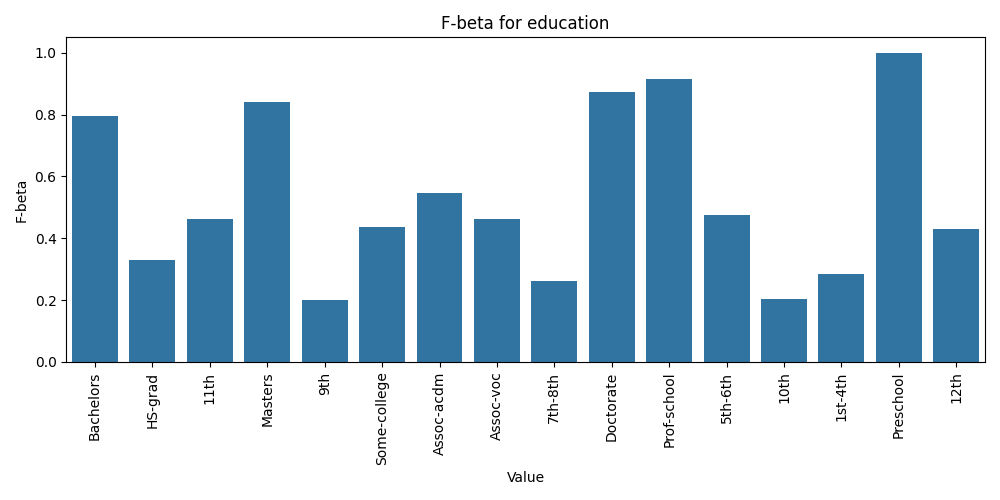
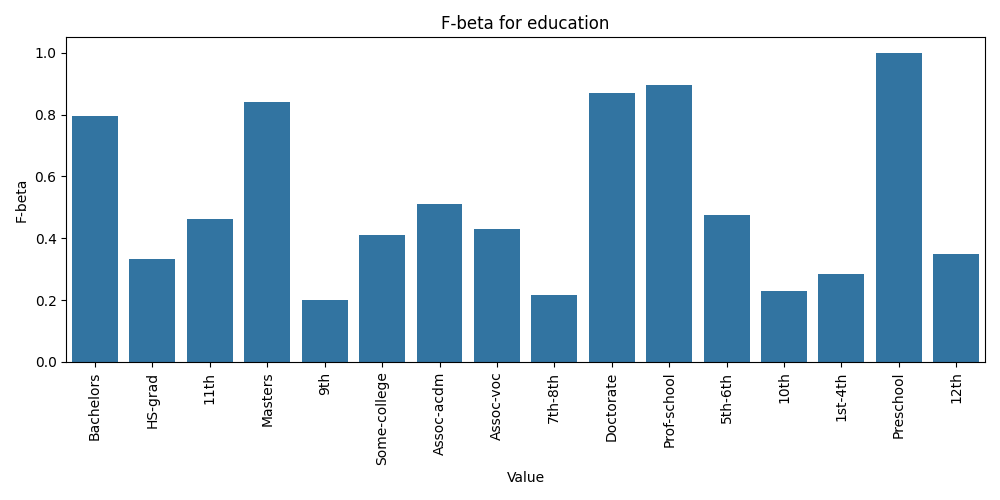
Fix inference to not get y's as input or return them. Create RestAPI with FastAPI with Post and Get methods and create unit tests for them.

diff --git a/starter/test_api.py b/starter/test_api.py
@@ -1,0 +1,124 @@
+"""
+This file contains 3 tests for the API: one for the GET and two for the POST method, one that tests each prediction.
+
+Author: P. Arvanitis
+"""
+
+import json
+import os
+
+import sys
+import pandas as pd
+import numpy as np
+
+from fastapi.testclient import TestClient
+
+# Import the app from the main.py file
+from main import app
+
+# Add the root directory of the project to the python path
+sys.path.append(os.path.dirname(os.path.dirname(os.path.abspath(__file__))))
+
+# Create a test client for the app
+client = TestClient(app)
+
+
+def test_root():
+    """
+    This function tests the root endpoint.
+    """
+    response = client.get("/")
+    assert response.status_code == 200
+    assert response.json() == {"message": "Welcome to the ML Model API!"}
+
+
+def test_predict_false():
+    """
+    This function tests the predict endpoint with a false prediction.
+    """
+    # Load the data
+    data = pd.read_csv('data/census_clean.csv')
+    # Find a data row with a salary of <=50K
+    data = data[data['salary'] == '<=50K'].iloc[0]
+
+    # Get X
+    X = data.drop(['salary'])
+
+    # Create a dictionary from the data
+    X_dict = dict(X)
+    # Convert all numeric values of dict to int
+    for key, value in X_dict.items():
+        if isinstance(value, np.int64):
+            X_dict[key] = int(value)
+
+    # Convert all '-' in keys to '_'
+    X_dict = {key.replace('-', '_'): value for key, value in X_dict.items()}
+
+    X_json = json.dumps(X_dict)
+
+    # Make a request to the API
+    response = client.post("/predict", data=X_json)
+
+    print(response.json())
+
+    # Check the response status code
+    assert response.status_code == 200
+
+    # Check the response content
+    assert response.json() == {"prediction": 0}
+
+
+def test_predict_successful():
+    """
+    Test the predict endpoint with a successful prediction.
+    """
+    # Create a test data dictionary
+    test_data = {
+        "age": 25,
+        "workclass": "Private",
+        "fnlgt": 77116,
+        "education": "Bachelors",
+        "education_num": 13,
+        "marital_status": "Never-married",
+        "occupation": "Tech-support",
+        "relationship": "Not-in-family",
+        "race": "White",
+        "sex": "Female",
+        "capital_gain": 2000,
+        "capital_loss": 0,
+        "hours_per_week": 40,
+        "native_country": "United-States",
+    }
+
+    test_data_json = json.dumps(test_data)
+
+    response = client.post("/predict", data=test_data_json)
+    assert response.status_code == 200
+    assert "prediction" in response.json()
+
+
+def test_predict_invalid_input():
+    """
+    Test the predict endpoint with invalid input.
+    """
+    # Create a test data dictionary with invalid input (age is missing)
+    test_data = {
+        "workclass": "Private",
+        "fnlgt": 77116,
+        "education": "Bachelors",
+        "education_num": 13,
+        "marital_status": "Never-married",
+        "occupation": "Tech-support",
+        "relationship": "Not-in-family",
+        "race": "White",
+        "sex": "Female",
+        "capital_gain": 2000,
+        "capital_loss": 0,
+        "hours_per_week": 40,
+        "native_country": "United-States",
+    }
+
+    test_data_json = json.dumps(test_data)
+
+    response = client.post("/predict", data=test_data_json)
+    assert response.status_code == 422

diff --git a/starter/main.py b/starter/main.py
@@ -1,1 +1,69 @@
 # Put the code for your API here.
+from fastapi import FastAPI
+import pandas as pd
+import pickle
+from pydantic import BaseModel
+
+from starter.inference_model_pipeline import inference_model_pipeline
+
+app = FastAPI()
+
+
+class CensusData(BaseModel):
+    age: int
+    workclass: str
+    fnlgt: int
+    education: str
+    education_num: int
+    marital_status: str
+    occupation: str
+    relationship: str
+    race: str
+    sex: str
+    capital_gain: int
+    capital_loss: int
+    hours_per_week: int
+    native_country: str
+
+
+@app.get("/")
+async def root():
+    return {"message": "Welcome to the ML Model API!"}
+
+
+@app.post("/predict")
+async def predict(data: CensusData):
+    """
+    This function performs inference on the model.
+    Parameters
+    ----------
+    data: dataframe
+        Data.
+
+    Returns
+    -------
+    preds: array
+        Predictions.
+    """
+    # Load the model, encoder and label binarizer
+    with open('model/model.pkl', 'rb') as file:
+        model = pickle.load(file)
+    with open('model/encoder.pkl', 'rb') as file:
+        encoder = pickle.load(file)
+    with open('model/lb.pkl', 'rb') as file:
+        lb = pickle.load(file)
+
+    # Convert data to dict
+    data = data.dict()
+
+    # Convert all '_' in keys to '-'
+    data = {key.replace('_', '-'): value for key, value in data.items()}
+
+    # Create a dataframe from the data
+    X = pd.DataFrame([data])
+
+    # Run inference
+    preds = inference_model_pipeline(X, model, encoder, lb)
+
+    # return {"data": data}
+    return {"prediction": int(preds[0])}

diff --git a/starter/starter/inference_model_pipeline.py b/starter/starter/inference_model_pipeline.py
@@ -2,12 +2,12 @@ from starter.ml.data import process_data
 from starter.ml.model import inference
 
 
-def inference_model_pipeline(data, model, encoder, lb):
+def inference_model_pipeline(X, model, encoder, lb):
     """
     This function performs inference on the model.
     Parameters
     ----------
-    data: dataframe
+    X: dataframe
         Data.
     model: object
         Trained model.
@@ -34,11 +34,11 @@ def inference_model_pipeline(data, model, encoder, lb):
     ]
 
     # Process the data with the process_data function
-    X, y, _, _ = process_data(
-        data, categorical_features=cat_features, label="salary", training=False, encoder=encoder, lb=lb
+    X, _, _, _ = process_data(
+        X, categorical_features=cat_features, label=None, training=False, encoder=encoder, lb=lb
     )
 
     # Run inference
     preds = inference(model, X)
 
-    return preds, y
+    return preds

diff --git a/starter/starter/slice_performance.py b/starter/starter/slice_performance.py
@@ -39,8 +39,16 @@ def compute_categorical_features_performance(data, model, cat_features, encoder,
         for value in data[feature].unique():
             subset = data[data[feature] == value]
 
+            # Get X
+            X = subset.drop(['salary'], axis=1)
+
             # Compute model predictions for subset
-            preds, y = inference_model_pipeline(subset, model, encoder, lb)
+            preds = inference_model_pipeline(X, model, encoder, lb)
+
+            # Get y
+            y = subset['salary']
+            # Convert y to binary
+            y = lb.transform(y.values).ravel()
 
             # Compute model metrics for subset
             precision, recall, fbeta = compute_model_metrics(y, preds)

diff --git a/starter/run_inference.py b/starter/run_inference.py
@@ -21,10 +21,18 @@ if __name__ == '__main__':
     encoder = pickle.load(open('model/encoder.pkl', 'rb'))
     lb = pickle.load(open('model/lb.pkl', 'rb'))
 
-    # run the pipeline
-    preds, y = inference_model_pipeline(data, model, encoder, lb)
+    # Get X
+    X = data.drop(['salary'], axis=1)
 
-    # Compute model metrics
+    # run inference
+    preds = inference_model_pipeline(X, model, encoder, lb)
+
+    # Get y
+    y = data['salary']
+    # Convert y to binary
+    y = lb.transform(y.values).ravel()
+
+    # Compute metrics
     precision, recall, fbeta = compute_model_metrics(y, preds)
     print(f"Accuracy: {(preds == y).mean()}")
     print(f"Precision: {precision}")
